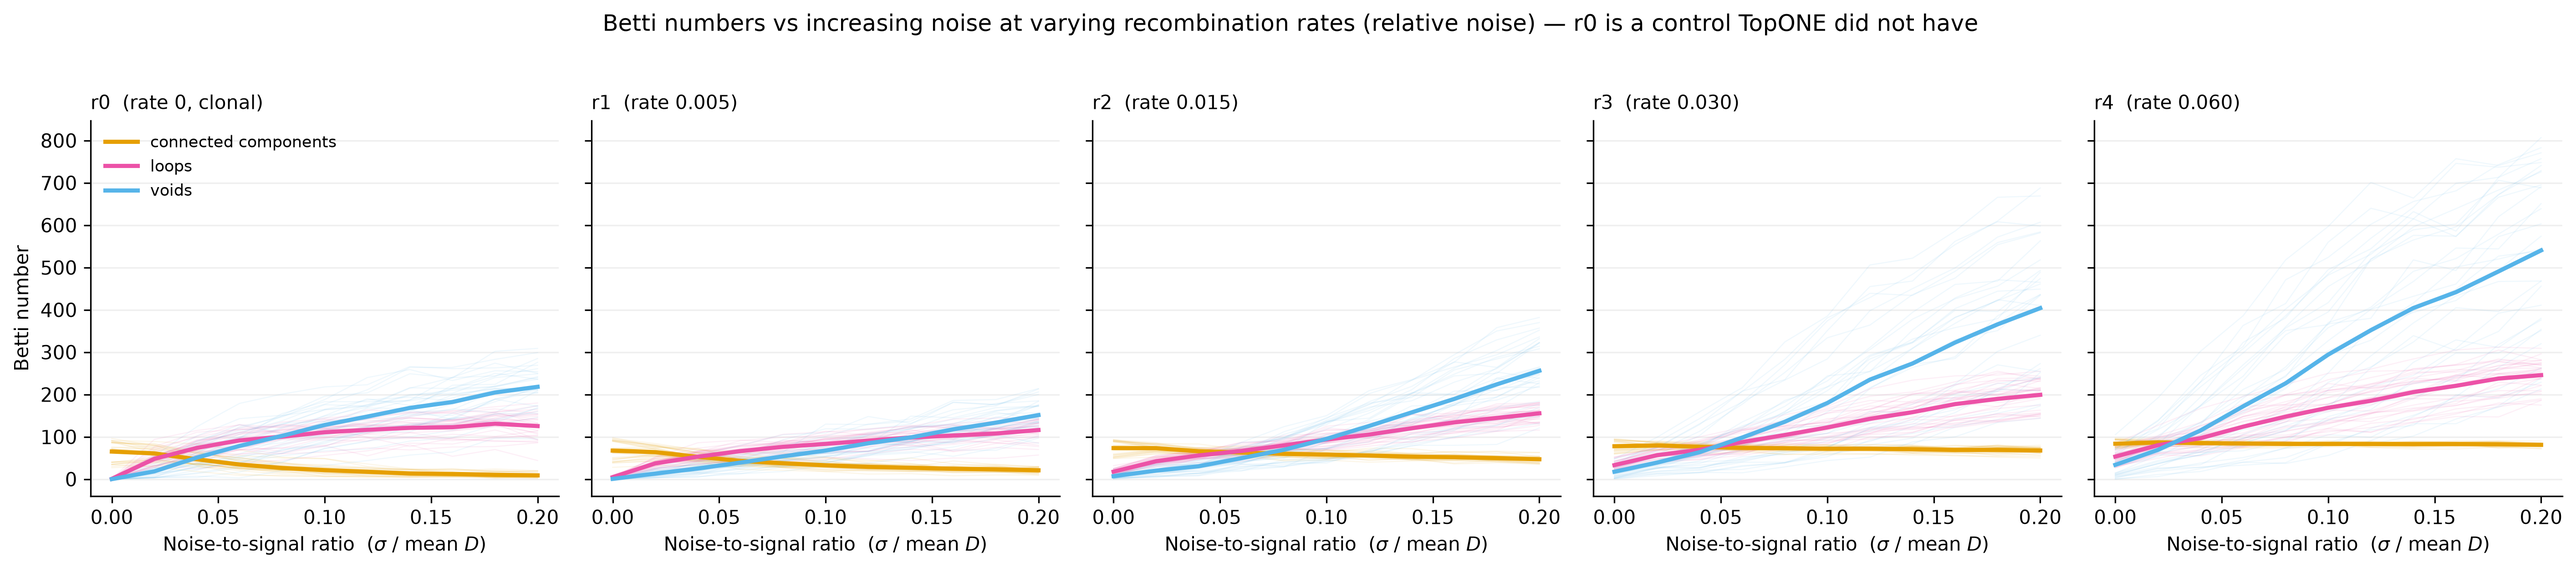
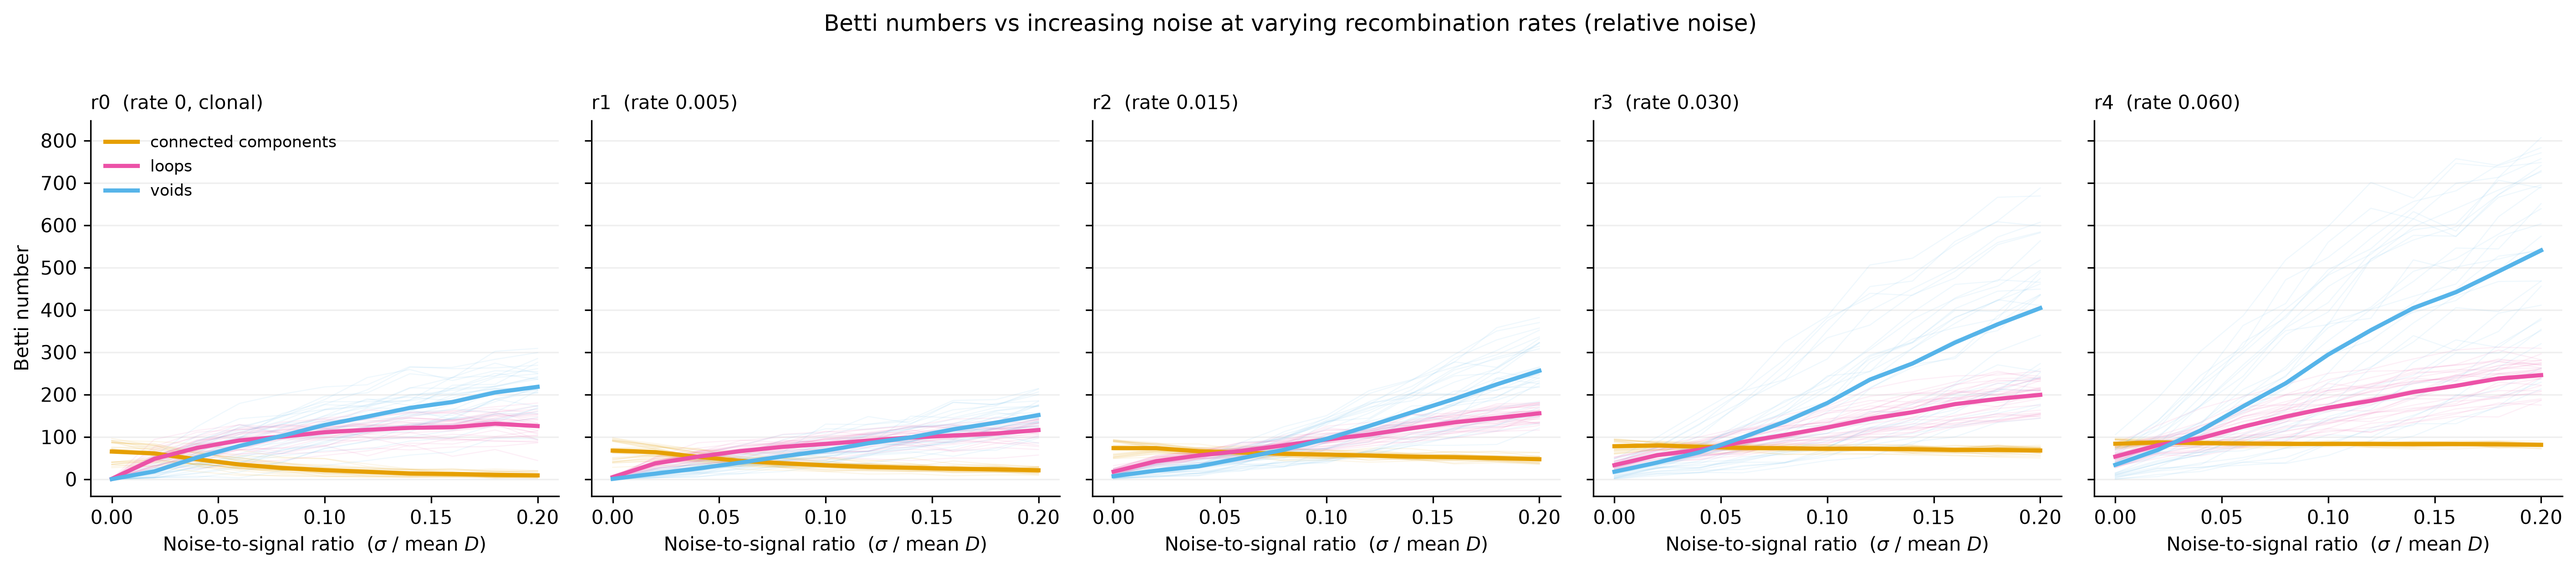
edit fig header

Changed region(s): [[0.2178, 0.0312, 0.7778, 0.0624]]

diff --git a/scripts/11_figure_topone_replication.py b/scripts/11_figure_topone_replication.py
@@ -228,8 +228,7 @@ def R4(df, arm="abs"):
         fig,
         f"topone_R4{tag}_noise_x_rho_{arm}.png",
         f"Betti numbers vs increasing noise at varying recombination rates "
-        f"({'absolute' if arm == 'abs' else 'relative'} noise) — "
-        f"r0 is a control TopONE did not have",
+        f"({'absolute' if arm == 'abs' else 'relative'} noise)"
     )
 
 
